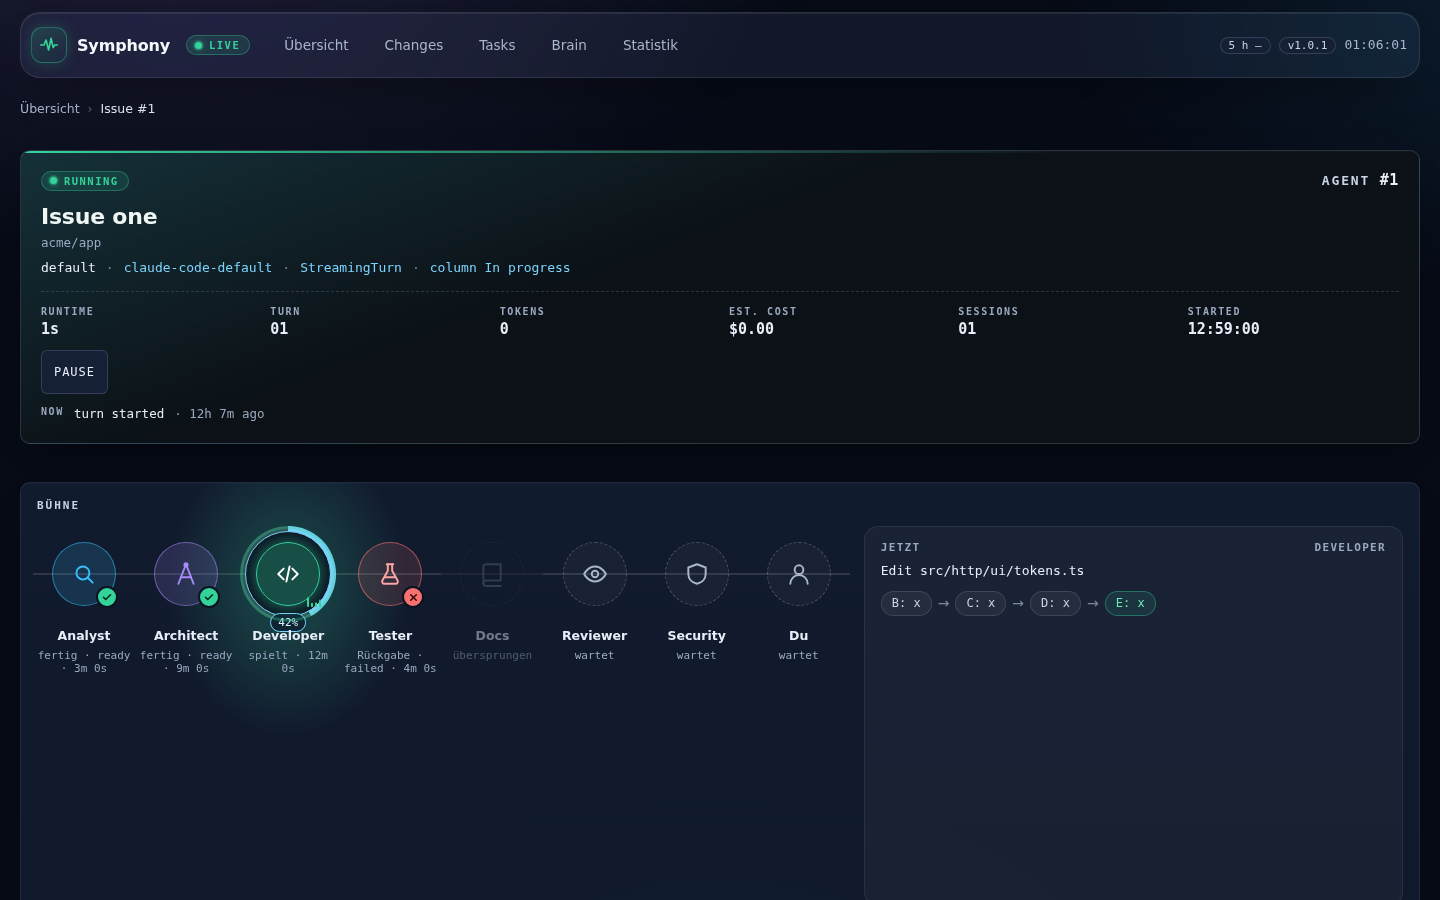
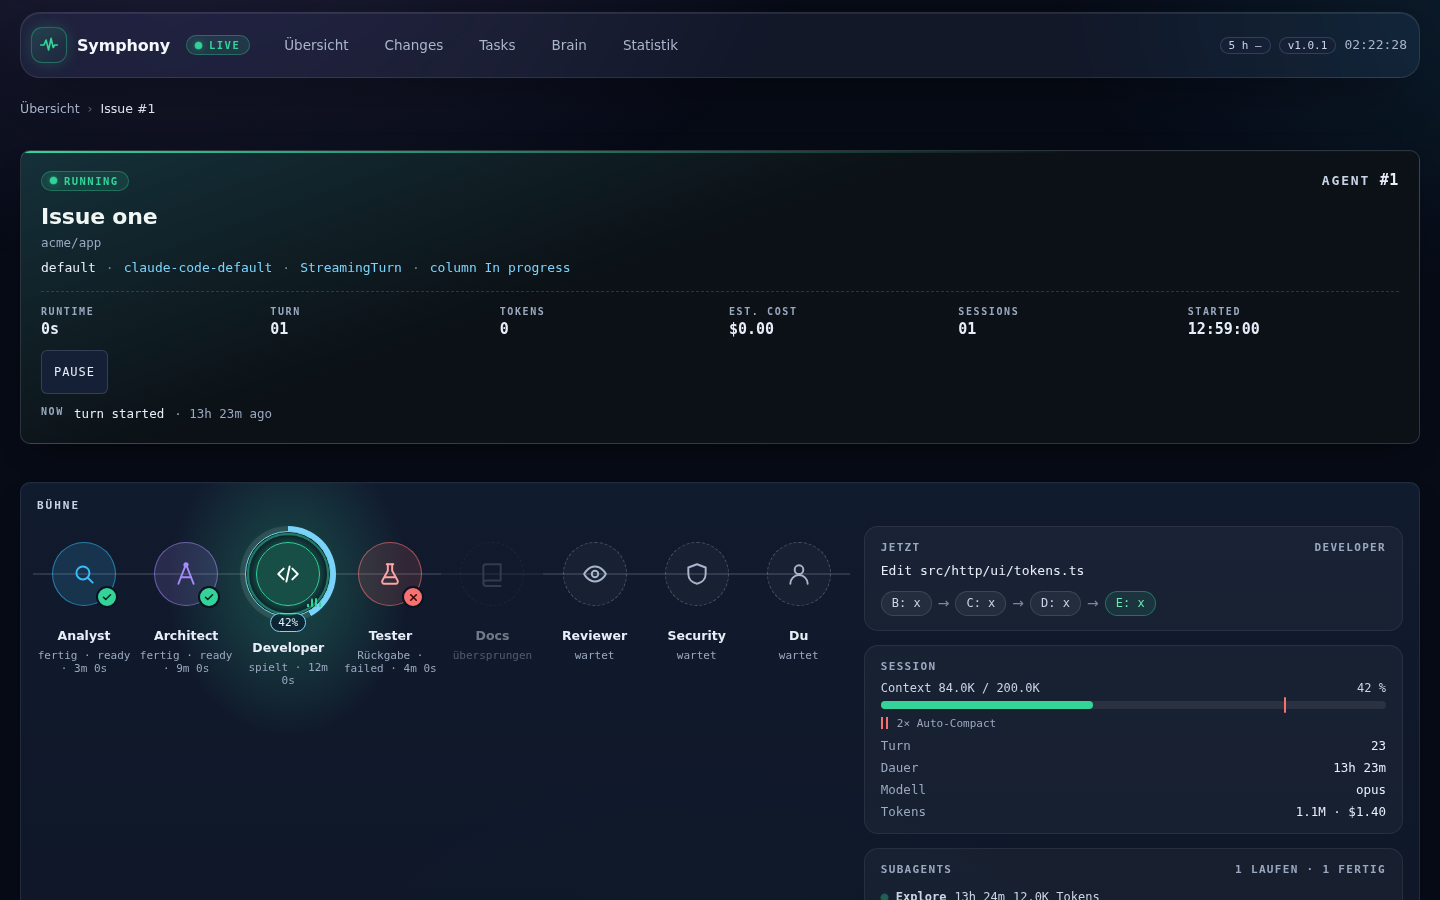
(E3-3) Fix: Bühne – Feldhöhe ab 1280 px, Platz für Prozent-Badge, beendeter Lauf ohne Session, Subagent-Puls bleibt stabil

diff --git a/src/http/agent-page.ts b/src/http/agent-page.ts
@@ -210,6 +210,7 @@ const AGENT_PAGE_CSS = `
   .stage-seat::before { content: ""; position: absolute; top: 47px; left: -4px; right: -4px; height: 2px; background: rgba(255, 255, 255, .12); }
   .stage-spot { position: relative; z-index: 1; height: 96px; display: grid; place-items: center; }
   .stage-gauge { position: relative; width: 96px; height: 96px; }
+  .stage-seat.is-active .stage-spot { margin-bottom: 12px; }
   .stage-gauge > .ui-av { position: absolute; left: 16px; top: 16px; }
   .stage-seat.is-active::after { content: ""; position: absolute; z-index: 0; left: 50%; top: -90px; width: 240px; height: 300px; margin-left: -120px; background: radial-gradient(closest-side, var(--seat-glow, rgba(120, 160, 255, .28)), transparent); pointer-events: none; }
   .stage-seat.is-skipped { opacity: .45; }
@@ -239,6 +240,7 @@ const AGENT_PAGE_CSS = `
   @media (min-width: 1280px) {
     .stage-body { grid-template-columns: minmax(0, 3fr) minmax(340px, 2fr); }
     .stage-fields { flex-direction: column; flex-wrap: nowrap; }
+    .stage-field, .stage-field.is-now { flex: 0 0 auto; }
   }
   @media (max-width: 900px) {
     .stage-seats { grid-auto-flow: row; grid-template-columns: repeat(var(--stage-cols, 4), minmax(0, 1fr)); }
@@ -443,7 +445,7 @@ ${PIPELINE_JS}
     items: [], filter: 'all', q: '', expanded: new Set(), collapsed: new Set(), limit: RENDER_LIMIT,
     rendered: false, nodes: new Map(), listSig: '', unseen: 0, known: new Set(), fresh: new Set(),
     rawOpen: false, rawSev: '', rawQ: '',
-    team: null, stageSig: '', stagePct: undefined,
+    team: null, stageSig: '', stagePct: undefined, subsSig: '',
   };
 
   // ------------------------------------------------------------------ data loading (one poll loop)
@@ -1716,15 +1718,27 @@ ${PIPELINE_JS}
     setText($('stage-subs-meta'), active ? running.length + ' laufen · ' + finished.length + ' fertig' : '');
     if (!active) return stageEmpty(box);
     if (!running.length && !finished.length) return box.replaceChildren(el('p', 'Keine Subagents', 'stage-empty'));
-    box.replaceChildren(...[...running, ...finished].map((s) => {
-      const isRun = s.status === 'running';
-      const row = el('div', null, 'stage-subagent ' + (isRun ? 'is-running' : 'is-done'));
-      const end = s.ended_at ? Date.parse(s.ended_at) : Date.now();
-      row.append(el('span', null, 'dot' + (isRun ? ' pulse' : '')), el('b', s.subagent_type, 'mono'),
-        el('span', fmtDuration((end - Date.parse(s.started_at)) / 1000)), el('span', fmtCompact(s.tokens && s.tokens.total_tokens) + ' Tokens'),
-        el('span', oneLine(s.description, 80), 'desc'));
-      return row;
-    }));
+    const all = [...running, ...finished];
+    const sig = all.map((x, i) => (x.tool_use_id || i) + ':' + (x.status === 'running' ? 'r' : 'd')).join(',');
+    const timing = (x) => fmtDuration(((x.ended_at ? Date.parse(x.ended_at) : Date.now()) - Date.parse(x.started_at)) / 1000);
+    const tokensOf = (x) => fmtCompact(x.tokens && x.tokens.total_tokens) + ' Tokens';
+    // Rebuild only when the set or state changes, so the running pulse is not restarted by every poll.
+    if (sig !== S.subsSig || box.querySelector('.stage-empty')) {
+      S.subsSig = sig;
+      box.replaceChildren(...all.map((x) => {
+        const isRun = x.status === 'running';
+        const row = el('div', null, 'stage-subagent ' + (isRun ? 'is-running' : 'is-done'));
+        row.append(el('span', null, 'dot' + (isRun ? ' pulse' : '')), el('b', x.subagent_type, 'mono'),
+          el('span', timing(x), 'dur'), el('span', tokensOf(x), 'tok'), el('span', oneLine(x.description, 80), 'desc'));
+        return row;
+      }));
+      return;
+    }
+    all.forEach((x, i) => {
+      const row = box.children[i];
+      setText(row.querySelector('.dur'), timing(x));
+      setText(row.querySelector('.tok'), tokensOf(x));
+    });
   }
 
   function renderStage() {
@@ -1732,7 +1746,8 @@ ${PIPELINE_JS}
     const ok = !!(team && Array.isArray(team.seats));
     $('stage').hidden = !ok;
     if (!ok) return;
-    const active = team.active || null;
+    // A finished run has no live session, whatever the last /team said.
+    const active = S.ended || S.notFound ? null : team.active || null;
     renderStageSeats(team.seats, active);
     renderStageNow(active);
     renderStageSession(active);

diff --git a/test/team-stage.test.ts b/test/team-stage.test.ts
@@ -73,6 +73,16 @@ describe('stage of the team view', () => {
     for (const id of ['stage-now-body', 'stage-session-body', 'stage-subs-body']) assert.ok(text(page, id).includes('Keine Session'), id);
   });
 
+  it('shows no live session once the run has ended', () => {
+    const page = renderPage(AGENT_HTML, { detail: issueDetail(), team: teamView(), ended: true }, { url: AGENT_URL });
+    for (const sel of ['.ring', '.eq', '.is-active', '.ui-ring']) assert.equal(page.query('#stage ' + sel).length, 0, sel);
+    assert.ok(text(page, 'stage-now-body').includes('Keine Session'));
+  });
+
+  it('resets the flex basis of the fields in the wide column layout', () => {
+    assert.match(AGENT_HTML, /@media \(min-width: 1280px\) \{[^@]*\.stage-field, \.stage-field\.is-now \{ flex: 0 0 auto/);
+  });
+
   it('puts the seats into two rows and keeps the stage from overflowing', () => {
     const cols = (n: number) => {
       const team = teamView();
